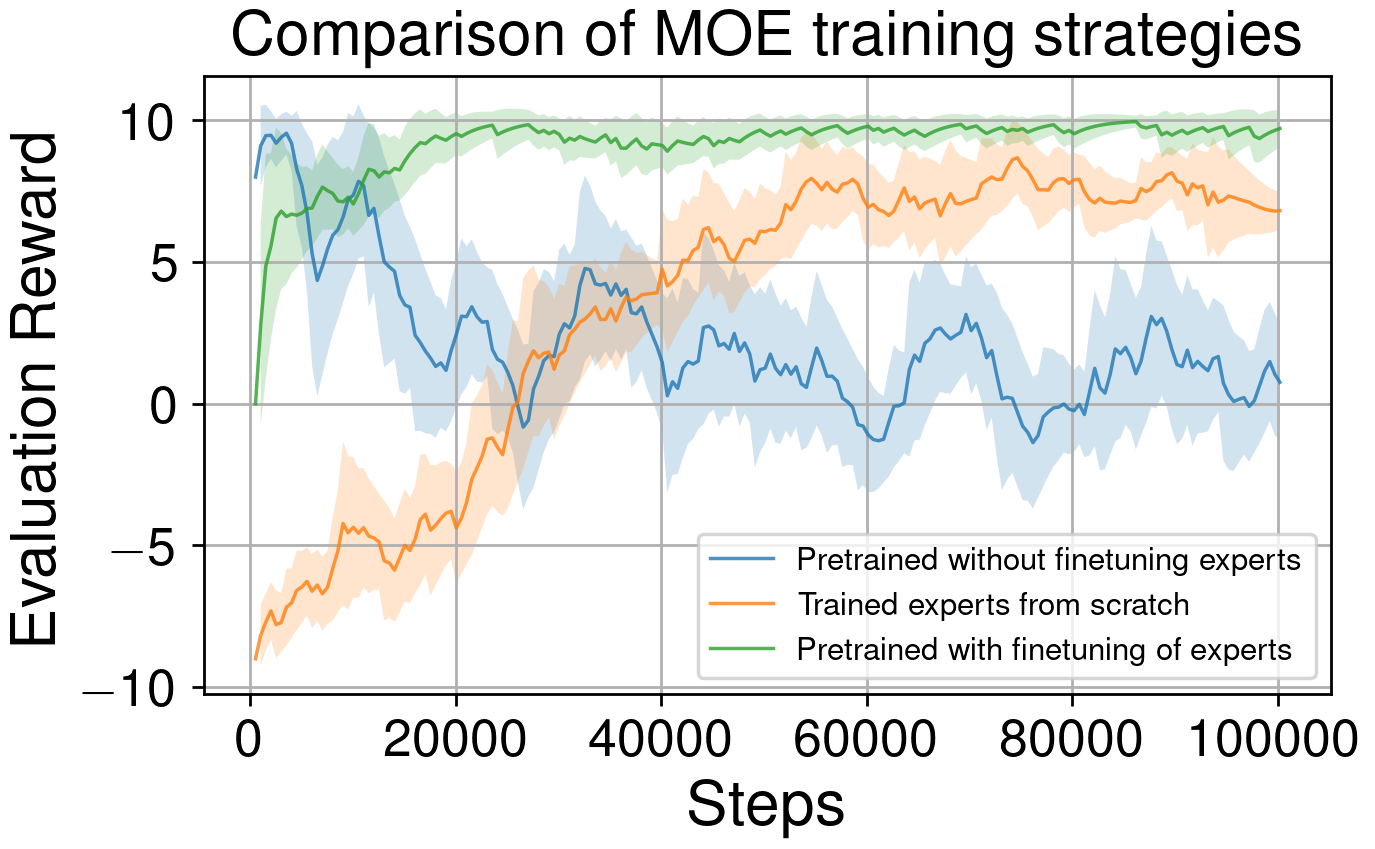
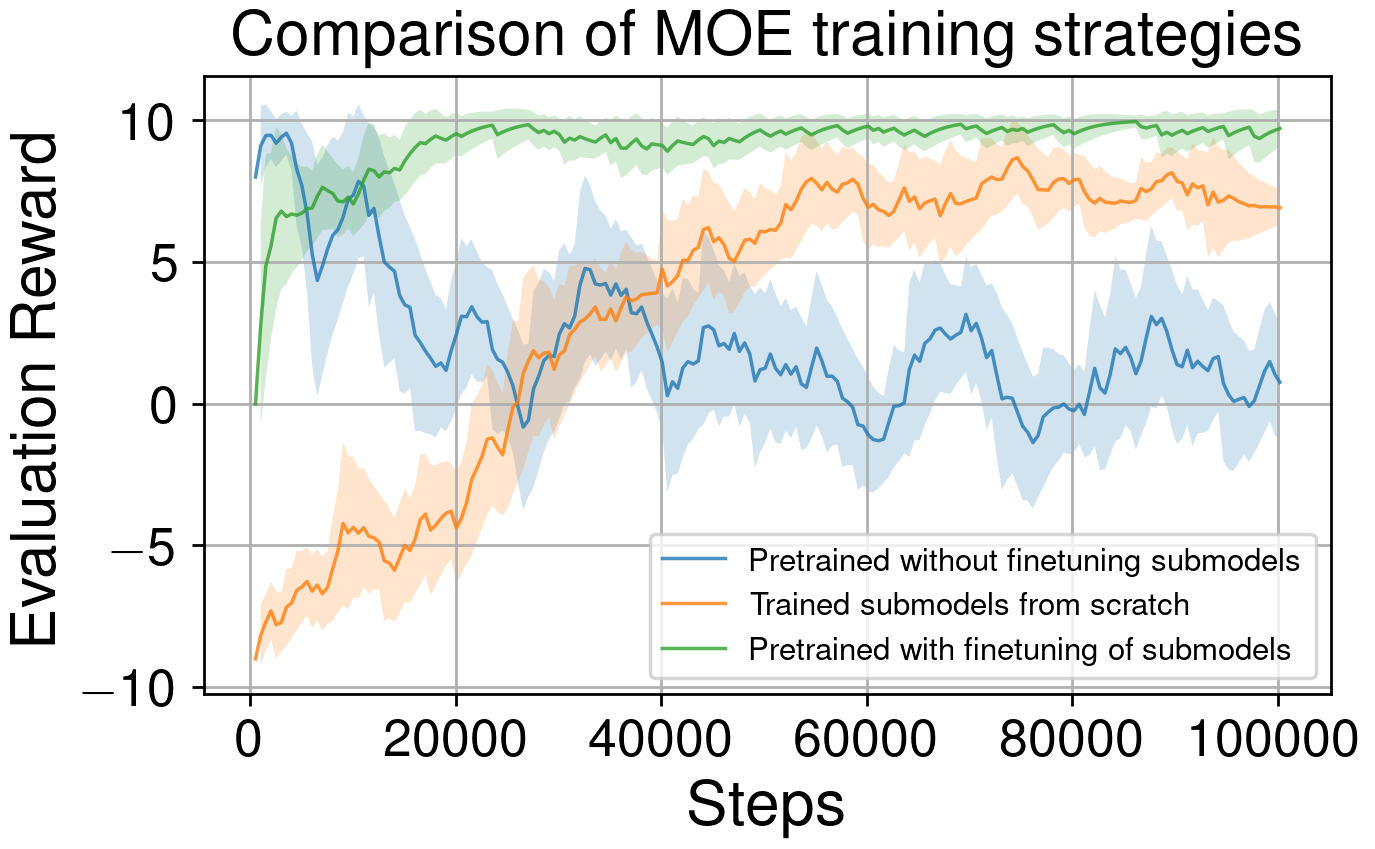
hybrid eval

Changed region(s): [[0.4582, 0.6125, 0.9469, 0.7962], [0.9164, 0.245, 0.9469, 0.2756], [0.8858, 0.2144, 0.9164, 0.245]]

diff --git a/report/hockey_eval.tex b/report/hockey_eval.tex
@@ -43,5 +43,12 @@ The performance on the hockey environment is evaluated with the average final pe
 
 
 \subsection{Hybrid Model Evaluation}
-The Hybrid model is evaluated with the same setup as the foundation models. The evaluation reward is recorded every 5000 steps (50 epochs) over 20 runs. The average reward is then saved and plotted in \autoref{fig:selfplay}. All other statistics, like critic-, actor-loss and training reward provided in the appendix \autoref{sec:hockey-plots}. The final average evaluation reward over 100 runs is also provided in \autoref{tab:avg_reward}.
-In \autoref{fig:moe_train_strategies} we can see that the trainig
+The hybrid model is trained against both strong and weak baseline opponents, using \ac{SAC} and \ac{TD3} foundation checkpoints. To prevent overfitting and enhance generalization, opponents are periodically changed throughout training.
+
+The \ac{SAC} and \ac{TD3} foundation checkpoints serve as submodels in the setup with pre-trained experts. As shown in \autoref{fig:moe_train_strategies}, the training strategy that combines pre-trained submodels with simultaneous training of the gate and submodels achieves the highest evaluation reward. The strategy that starts with empty submodels and trains both the gate and submodels also performs well but fails to converge to the maximum reward of ten. Meanwhile, the approach where only the gate is trained initially yields the best evaluation reward but is eventually outperformed by the other strategies as training progresses.
+
+The gate's loss reflects its effectiveness in selecting the optimal submodel for a given state. In \autoref{fig:moe_train_strategies_loss}, periodic peaks in the loss indicate moments when opponents were changed. The training strategy with pre-trained submodels and simultaneous gate-submodel training results in the smoothest loss curve, with a steady decrease after 60,000 steps. In contrast, other strategies exhibit high fluctuations, and their average loss tends to increase over time.
+
+
+\subsection{Evaluation\acl{SAC}}
+\ac{SAC} is evaluated for the default and customized reward, additionally containing a time, distance to goal and refusal to start penalty. In \autoref{fig:eval-own-reward} we can see that our custom reward function almost halves the number of steps required for convergence compared to the standard reward function. Furthermore the final evaluation reward is significant higher compared to the default reward. Another interresting aspect is that \ac{SAC} converges faster compared to \ac{TD3}, which can be explained by the implemented alpha-tuning.

diff --git a/report/plots/moe_plots.py b/report/plots/moe_plots.py
@@ -48,22 +48,25 @@ def plot_data(ax, df, label, window):
     ax.plot(steps, moving_avg, label=label, alpha=0.8, linewidth=1)
 
 
-def plot_all_data(a, b, c, title, x_label, y_label, output_file, window=10):
+def plot_all_data(a, b, c, title, x_label, y_label, output_file, window=10, ll=None):
     """Plot SAC and TD3 data in one figure."""
     fig, ax = plt.subplots()
 
     # Plot SAC
-    plot_data(ax, a, "Pretrained without finetuning experts", window)
+    plot_data(ax, a, "Pretrained without finetuning submodels", window)
     # Plot TD3
-    plot_data(ax, b, "Trained experts from scratch", window)
+    plot_data(ax, b, "Trained submodels from scratch", window)
 
-    plot_data(ax, c, "Pretrained with finetuning of experts", window)
+    plot_data(ax, c, "Pretrained with finetuning of submodels", window)
 
     ax.set_title(title, fontsize=plt.rcParams["axes.titlesize"])
     ax.set_xlabel(x_label, fontsize=plt.rcParams["axes.labelsize"])
     ax.set_ylabel(y_label, fontsize=plt.rcParams["axes.labelsize"])
     ax.grid(True)
-    ax.legend(loc="lower right")
+    if ll is None:
+        ax.legend(loc="lower right")
+    else:
+        ax.legend(loc="upper left")
 
     plt.savefig(f"../images/{output_file}.png")
     plt.close(fig)
@@ -128,4 +131,5 @@ plot_all_data(
     "Loss",
     "moe_train_strategies_loss",
     window=10,
+    ll="",
 )
